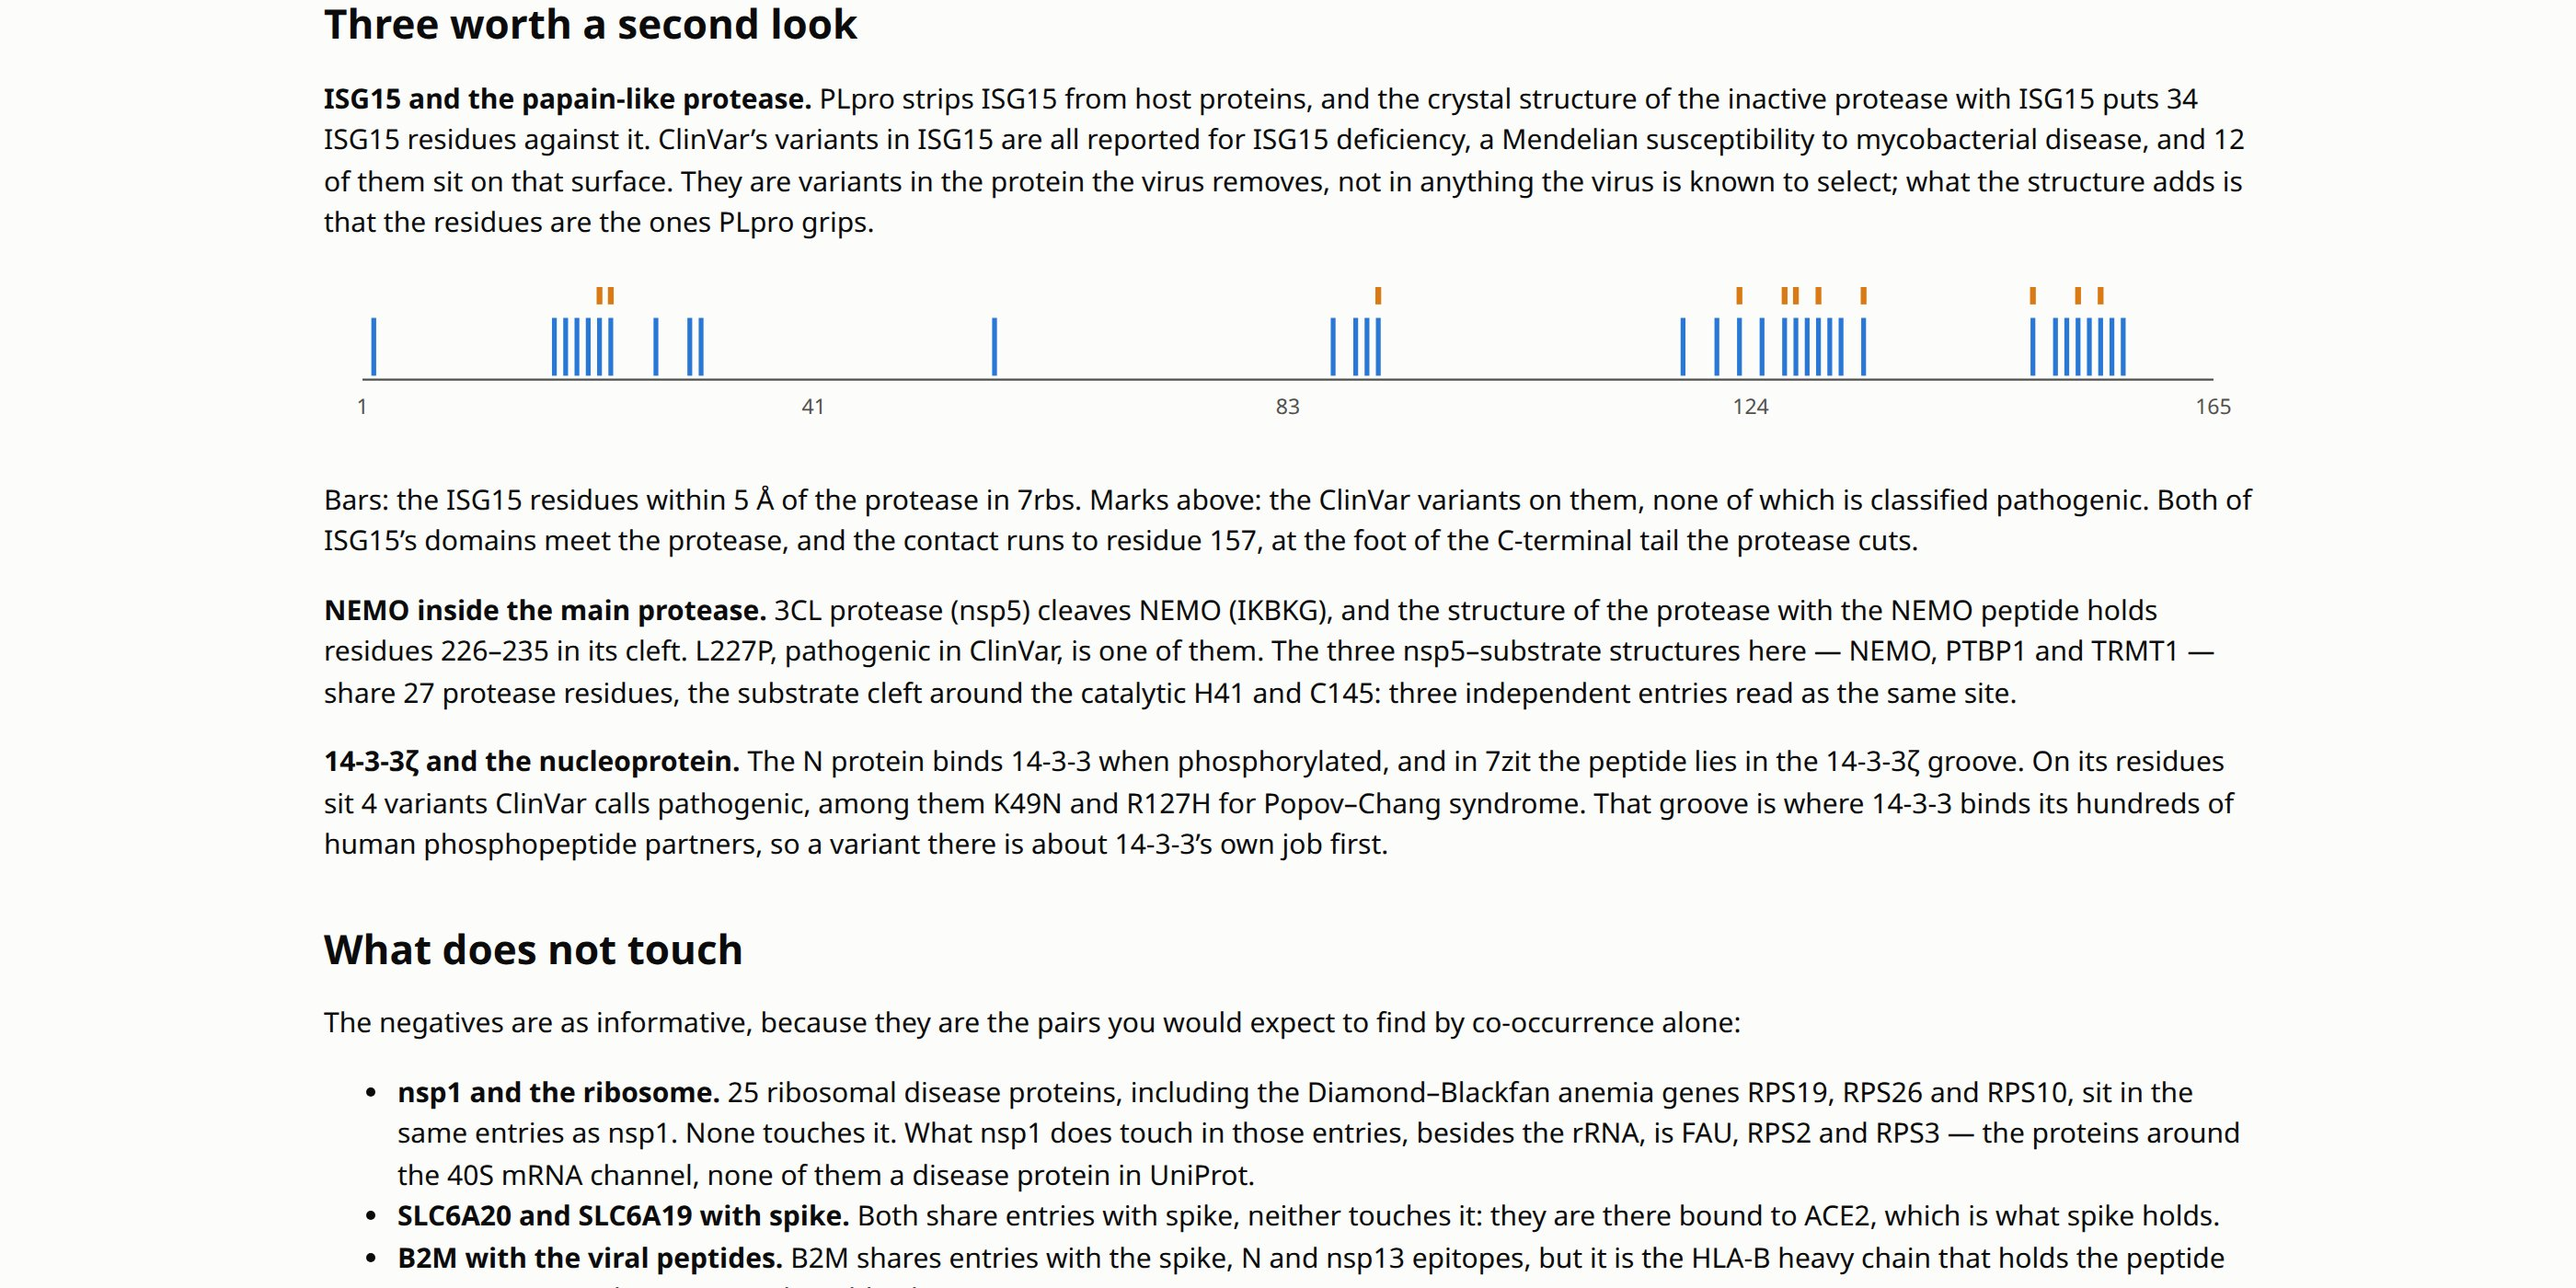
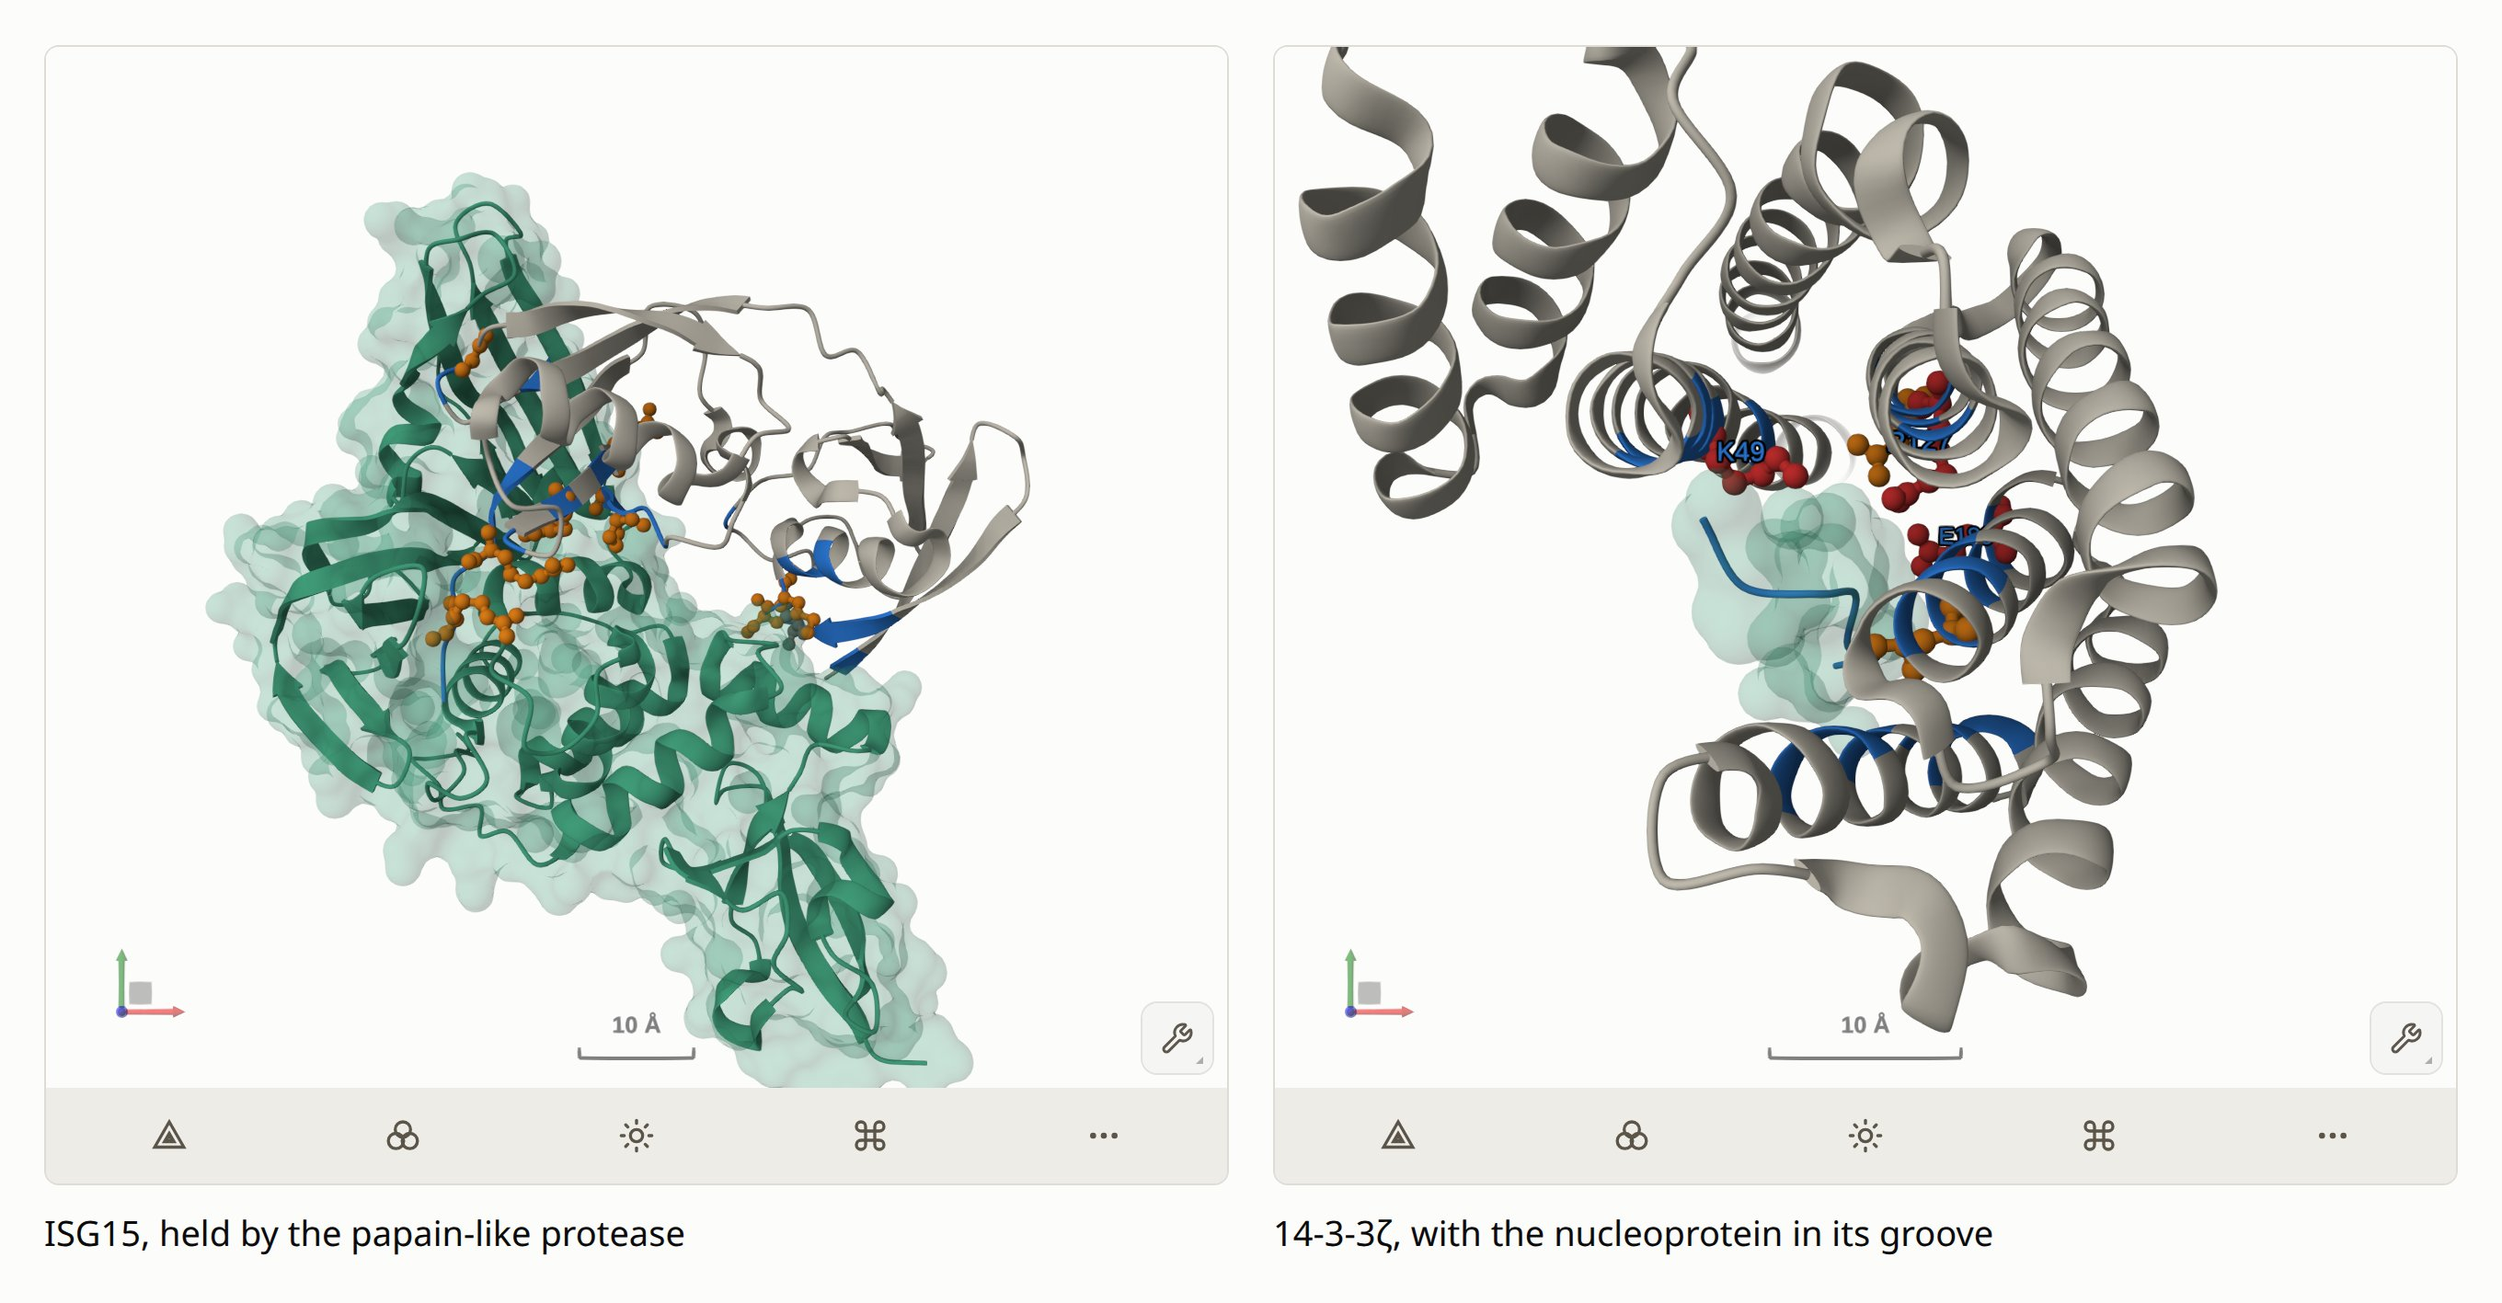
The SARS-CoV-2 hero is two structures, not a photograph of the prose
The hero shot the post at an anchor, so it was a picture of paragraphs: it still
read "34 ISG15 residues", "12 of them" and "PLpro grips", two revisions and one
contact fix out of date, and nothing failed when the words moved.

It is now composed in a page of its own, /figures/sars-cov-2/, which lays out
two of the interfaces side by side and is what the capture clips. The panels are
the two the post argues from: ISG15 in the protease's grip, and the 14-3-3
groove where the pathogenic variants sit. Being a page, it is rebuilt from the
contact data by pnpm heroes, so a number can no longer go stale inside a jpg.

The viewer's toolbar shows along the bottom of each panel: it is in the viewer's
shadow DOM, so page CSS cannot hide it, and it collapses only in panels wider
than the capture window.

diff --git a/src/heroes.ts b/src/heroes.ts
@@ -60,10 +60,10 @@ await screenshots(
     },
     {
       name: 'sars-cov-2',
-      url: local =>
-        `${local}blog/2026-11-12-sars-cov-2/#three-worth-a-second-look`,
-      height: 700,
-      wait: 5,
+      url: local => `${local}figures/sars-cov-2/`,
+      clip: '.hero-figure',
+      height: 1000,
+      wait: 35,
     },
   ],
   { dir: join(ROOT, 'web', 'content', 'blog', 'heroes'), format: 'jpeg' },
